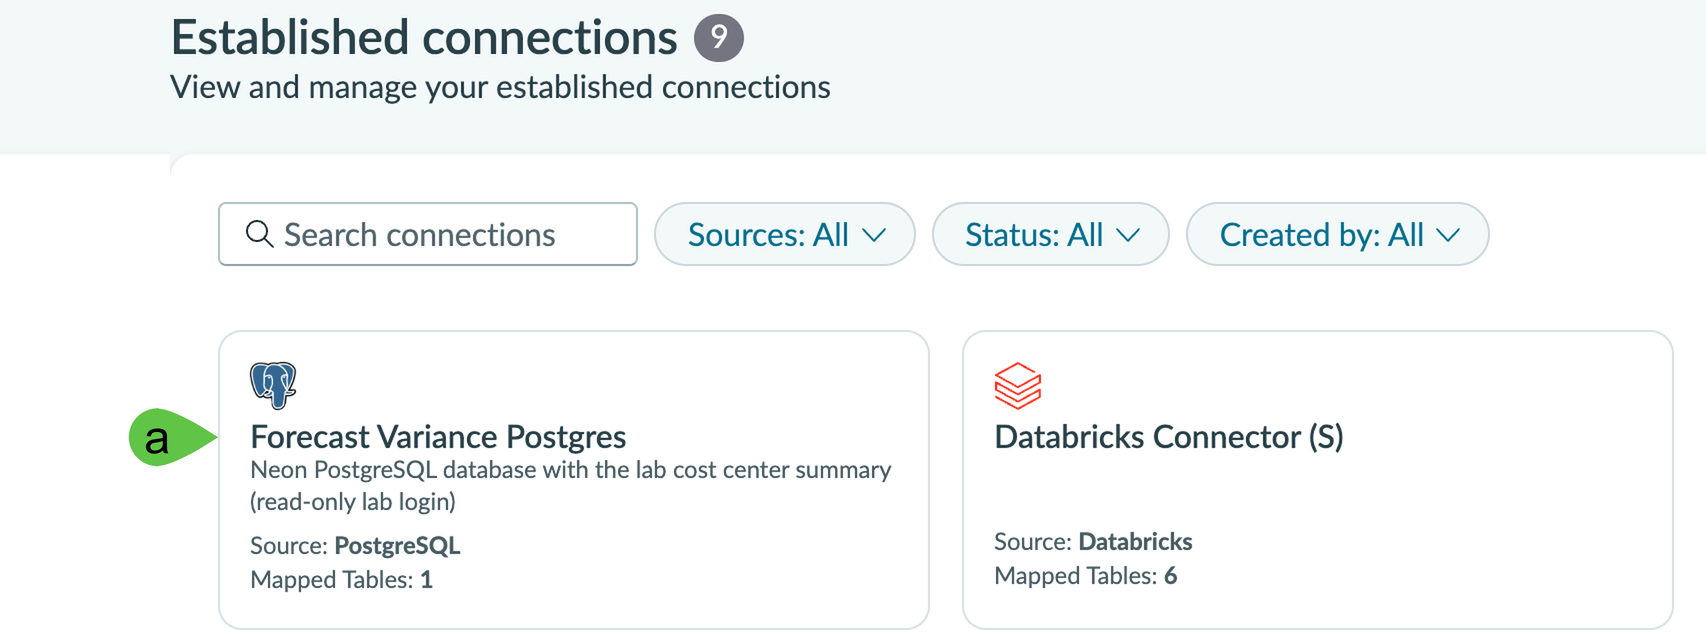
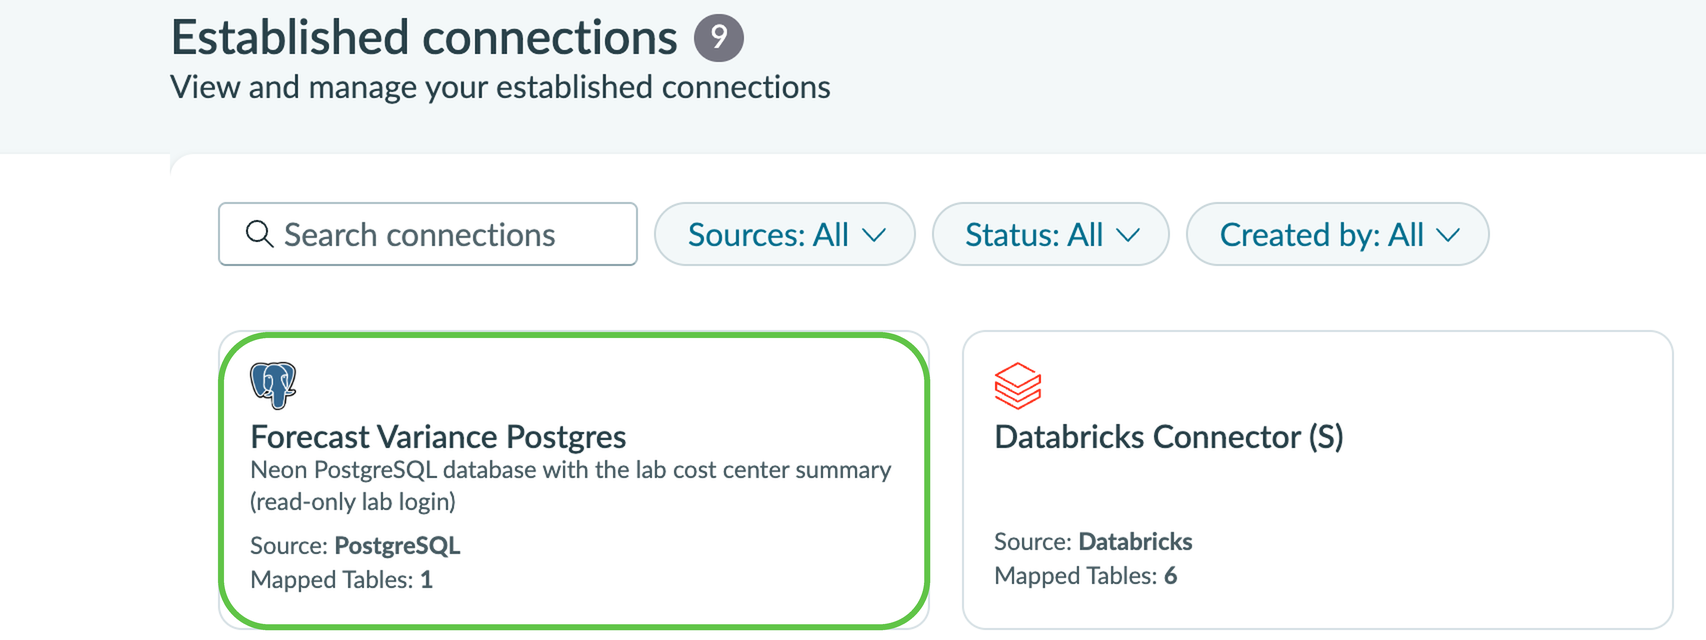
Rehost new MCP studio screenshots as lab assets, swap single-a pins for the empty box on four Zero Copy screenshots
Generated with [Devin](https://devin.ai)

Changed region(s): [[0.0621, 0.5, 0.5281, 1.0], [0.5281, 0.5312, 0.5592, 0.9688]]

diff --git a/src/fluent/lab-assets/lab-assets.now.ts b/src/fluent/lab-assets/lab-assets.now.ts
@@ -2384,3 +2384,82 @@ Record({
         image: Now.attach('./files/wdf_connectors_banner.gif'),
     },
 })
+
+Record({
+    $id: Now.ID['lab-asset-sc-mcp-aia-agentic-solutions-nav-png'],
+    table: 'x_snc_forecast_v_0_lab_asset',
+    data: {
+        name: 'sc_mcp_aia_agentic_solutions_nav.png',
+        image: Now.attach('./files/sc_mcp_aia_agentic_solutions_nav.png'),
+    },
+})
+
+
+Record({
+    $id: Now.ID['lab-asset-sc-mcp-aia-agent-canvas-edit-png'],
+    table: 'x_snc_forecast_v_0_lab_asset',
+    data: {
+        name: 'sc_mcp_aia_agent_canvas_edit.png',
+        image: Now.attach('./files/sc_mcp_aia_agent_canvas_edit.png'),
+    },
+})
+
+
+Record({
+    $id: Now.ID['lab-asset-sc-mcp-aia-add-tool-menu-png'],
+    table: 'x_snc_forecast_v_0_lab_asset',
+    data: {
+        name: 'sc_mcp_aia_add_tool_menu.png',
+        image: Now.attach('./files/sc_mcp_aia_add_tool_menu.png'),
+    },
+})
+
+
+Record({
+    $id: Now.ID['lab-asset-sc-mcp-aia-tool-type-menu-png'],
+    table: 'x_snc_forecast_v_0_lab_asset',
+    data: {
+        name: 'sc_mcp_aia_tool_type_menu.png',
+        image: Now.attach('./files/sc_mcp_aia_tool_type_menu.png'),
+    },
+})
+
+
+Record({
+    $id: Now.ID['lab-asset-sc-mcp-aia-select-server-tool-png'],
+    table: 'x_snc_forecast_v_0_lab_asset',
+    data: {
+        name: 'sc_mcp_aia_select_server_tool.png',
+        image: Now.attach('./files/sc_mcp_aia_select_server_tool.png'),
+    },
+})
+
+
+Record({
+    $id: Now.ID['lab-asset-sc-mcp-aia-tool-settings-png'],
+    table: 'x_snc_forecast_v_0_lab_asset',
+    data: {
+        name: 'sc_mcp_aia_tool_settings.png',
+        image: Now.attach('./files/sc_mcp_aia_tool_settings.png'),
+    },
+})
+
+
+Record({
+    $id: Now.ID['lab-asset-sc-mcp-aia-agent-tools-saved-png'],
+    table: 'x_snc_forecast_v_0_lab_asset',
+    data: {
+        name: 'sc_mcp_aia_agent_tools_saved.png',
+        image: Now.attach('./files/sc_mcp_aia_agent_tools_saved.png'),
+    },
+})
+
+
+Record({
+    $id: Now.ID['lab-asset-sc-mcp-aia-run-test-dialog-png'],
+    table: 'x_snc_forecast_v_0_lab_asset',
+    data: {
+        name: 'sc_mcp_aia_run_test_dialog.png',
+        image: Now.attach('./files/sc_mcp_aia_run_test_dialog.png'),
+    },
+})

diff --git a/lab-guide/extended-exercises/lab-exercise-model-context-protocol-server-client.md b/lab-guide/extended-exercises/lab-exercise-model-context-protocol-server-client.md
@@ -183,19 +183,29 @@ Accept default security controls. Configure channels and status. Save and test.
 
 Open the copy in the new AI Agent Studio. Add the MCP instructions to the agent. Add the Run SQL MCP server tool from Neon. Configure tool name, description, and execution mode.
 
-1. Navigate to All > <mark style="color:green;">**a.)**</mark> type **AI Agent Studio** > <mark style="color:green;">**b.)**</mark> click on **Agentic solutions**.
+1. Navigate to All > type **AI Agent Studio** > click on **Agentic Solutions**.
 
-2. In the list, <mark style="color:green;">**a.)**</mark> select the **AI agents** tab, <mark style="color:green;">**b.)**</mark> type **Forecast Variance Neon MCP Lab** in **Search** and <mark style="color:green;">**c.)**</mark> click the agent. The agent opens as a canvas.
+<figure><img src="../.gitbook/assets/sc_mcp_aia_agentic_solutions_nav.png" alt=""><figcaption></figcaption></figure>
+
+2. In the list, select the **AI agents** tab, type **Forecast Variance Neon MCP Lab** in **Search** and click the agent. The agent opens as a canvas.
 
 3. Click the **Edit** pencil on the agent in the middle of the canvas. The editor opens with the sections **Definitions, Tools, Access rules, Test scenarios, Triggers, Channels** and **Memories**.
 
+<figure><img src="../.gitbook/assets/sc_mcp_aia_agent_canvas_edit.png" alt=""><figcaption></figcaption></figure>
+
 4. In **Definitions > How-to instructions** go to **Step 2** (the agent you built in Integration Hub) and add one more bullet under it: **Also run the MCP tool "Get Details via Neon MCP" as a secondary check. Only return one entry (limit = 1). Columns should be \["COST\_CENTER", "ACTUAL\_AMOUNT\_USD", "BASELINE\_AMOUNT\_USD", "VARIANCE", "VARIANCE\_PCT"]**.
 
-5. Go to the **Tools** section and click <mark style="color:green;">**a.)**</mark> **+ Add tool** > <mark style="color:green;">**b.)**</mark> **Create new tool** > <mark style="color:green;">**c.)**</mark> **MCP server tool**. A new tab **MCP server tool** opens next to the agent tab.
+5. Go to the **Tools** section and click <mark style="color:green;">**a.)**</mark> **+ Add tool** > <mark style="color:green;">**b.)**</mark> **Create new tool**.
 
-6. In the new tab, <mark style="color:green;">**a.)**</mark> click **Select Model Context Protocol server** > <mark style="color:green;">**b.)**</mark> select **Neon MCP Lab**. A **Select tool** list appears and loads the tools of the Neon server (this can take a few seconds).
+<figure><img src="../.gitbook/assets/sc_mcp_aia_add_tool_menu.png" alt=""><figcaption></figcaption></figure>
 
-7. Click **Select tool**, <mark style="color:green;">**a.)**</mark> type **Run SQL** in **Search** and <mark style="color:green;">**b.)**</mark> select **Run SQL** (not **Run SQL Transaction**). The **Inputs** list (sql, project\_id, branch\_id, database\_name, role\_name, compute\_id, max\_rows) appears. Leave the inputs empty.
+6. In the list of tool types, click **MCP server tool**. A new tab **MCP server tool** opens next to the agent tab.
+
+<figure><img src="../.gitbook/assets/sc_mcp_aia_tool_type_menu.png" alt=""><figcaption></figcaption></figure>
+
+7. In the new tab, <mark style="color:green;">**a.)**</mark> select **Neon MCP Lab** in **Select Model Context Protocol server**. A **Select tool** list appears and loads the tools of the Neon server (this can take a few seconds). Then <mark style="color:green;">**b.)**</mark> click **Select tool**, type **Run SQL** in **Search** and select **Run SQL** (not **Run SQL Transaction**). The **Inputs** list (sql, project\_id, branch\_id, database\_name, role\_name, compute\_id, max\_rows) appears. Leave the inputs empty.
+
+<figure><img src="../.gitbook/assets/sc_mcp_aia_select_server_tool.png" alt=""><figcaption></figcaption></figure>
 
 8. Scroll down and provide the following details. You only need to modify three settings and leave the rest as they are.
 
@@ -208,9 +218,13 @@ Open the copy in the new AI Agent Studio. Add the MCP instructions to the agent.
 
 <mark style="color:green;">**c.)**</mark> **Execution mode**: **Autonomous**
 
-9. Click **Save** (top right of the tool tab).
+9. Click <mark style="color:green;">**d.)**</mark> **Save** (top right of the tool tab).
+
+<figure><img src="../.gitbook/assets/sc_mcp_aia_tool_settings.png" alt=""><figcaption></figcaption></figure>
 
 10. Go back to the **agent tab** (first tab). The **Tools** section now lists **Get Details via Neon MCP**. Click **Save** (top right).
+
+<figure><img src="../.gitbook/assets/sc_mcp_aia_agent_tools_saved.png" alt=""><figcaption></figcaption></figure>
 
 ### AI Agent Testing
 
@@ -218,9 +232,11 @@ Open the copy in the new AI Agent Studio. Add the MCP instructions to the agent.
 
 Enter test prompt to process an expense event. Verify the MCP tool returns matching cost center data from Neon.
 
-1. In the new AI Agent Studio, open the agent canvas (All > AI Agent Studio > **Agentic solutions** > **Forecast Variance Neon MCP Lab**). Click <mark style="color:green;">**a.)**</mark> **Run test** and keep <mark style="color:green;">**b.)**</mark> **Single test** selected.
+1. In the new AI Agent Studio, open the agent canvas (All > AI Agent Studio > **Agentic Solutions** > **Forecast Variance Neon MCP Lab**) and click **Run test**.
 
-2. In **Test scenario** <mark style="color:green;">**a.)**</mark> type **Help me process EXP-2025-IT-002-1007-01** and <mark style="color:green;">**b.)**</mark> click **Run single test**.
+2. In the **Run a test** dialog, <mark style="color:green;">**a.)**</mark> keep **Single test** selected, <mark style="color:green;">**b.)**</mark> check that **Test scenario** shows **Help me process EXP-2025-IT-002-1007-01** (type it if it is empty) and <mark style="color:green;">**c.)**</mark> click **Run single test**.
+
+<figure><img src="../.gitbook/assets/sc_mcp_aia_run_test_dialog.png" alt=""><figcaption></figcaption></figure>
 
 3. The **Trace log** opens on the right and runs the tools one after the other: **Extract Cost Center**, **Search for Cost Center History**, **Search for Expense Transactions History**, **Get Details via Neon MCP** and **Budget Variance Analysis**. Wait until the test shows **Completed**.
 

diff --git a/lab-guide/main-exercises/lab-exercise-zero-copy-connectors.md b/lab-guide/main-exercises/lab-exercise-zero-copy-connectors.md
@@ -212,7 +212,7 @@ You can let Build Agent clone the model for you.
     source's. If anything only partially inserts, roll back the run instead of leaving
     orphans.
     ```
-2.  Click <mark style="color:green;">**a.)**</mark> **Approve**. You should see the new model in **Forecast Variance** with system **S4D**, and counts that match the source (3, 29, 327, 48, 48, 29).
+2.  Click **Approve**. You should see the new model in **Forecast Variance** with system **S4D**, and counts that match the source (3, 29, 327, 48, 48, 29).
 
     <figure><img src="https://raw.githubusercontent.com/leojacinto/WorkflowDataFabric-TypeE/main/lab-guide/assets/sc_zcc_ba_approve.png" alt="" width="420"><figcaption></figcaption></figure>
 
@@ -269,7 +269,7 @@ Navigate to Zero Copy Connectors. Review the established PostgreSQL connection.
 1.  Navigate to **All** > <mark style="color:green;">**a.)**</mark> type **Zero Copy Connectors** > <mark style="color:green;">**b.)**</mark> click **Zero Copy Connectors (Workflow Data Fabric)**. This opens the **Zero Copy Connector Hub**.
 
     <figure><img src="https://raw.githubusercontent.com/leojacinto/WorkflowDataFabric-TypeE/main/lab-guide/assets/sc_zcc_pg_nav.png" alt="" width="320"><figcaption></figcaption></figure>
-2.  Go to **Established connections** > <mark style="color:green;">**a.)**</mark> **Forecast Variance Postgres**. <mark style="color:red;">**Note:**</mark> this connection is configured specifically for instances used in ServiceNow-led labs.
+2.  Go to **Established connections** > **Forecast Variance Postgres**. <mark style="color:red;">**Note:**</mark> this connection is configured specifically for instances used in ServiceNow-led labs.
 
     <figure><img src="https://raw.githubusercontent.com/leojacinto/WorkflowDataFabric-TypeE/main/lab-guide/assets/sc_zcc_pg_established.png" alt="" width="560"><figcaption></figcaption></figure>
 3.  The **Connection details** tab shows how the connection is configured: <mark style="color:green;">**a.)**</mark> a JDBC URL to the Neon database and <mark style="color:green;">**b.)**</mark> the read-only user **wdf\_lab\_reader**. No action needs to be done for this step.
@@ -286,7 +286,7 @@ Create a data fabric table from lab\_cc\_summary. Set Cost Center as a Reference
 2.  Enter the <mark style="color:green;">**a.)**</mark> **Label**, e.g. **cc\_summ\_\<your initials>**. The <mark style="color:green;">**b.)**</mark> **Name** is filled in for you, e.g. **x\_snc\_forecast\_v\_0\_df\_cc\_summ\_lfr**, and must stay at 40 characters or fewer. Check that <mark style="color:green;">**c.)**</mark> **Application scope** shows **Forecast Variance**, then click **Continue**.
 
     <figure><img src="https://raw.githubusercontent.com/leojacinto/WorkflowDataFabric-TypeE/main/lab-guide/assets/sc_zcc_pg_df_label.png" alt="" width="560"><figcaption></figcaption></figure>
-3.  Tick the <mark style="color:green;">**a.)**</mark> box beside **Name** to map all 10 columns to the data fabric table. You can also pick only the columns you need, which makes the table load faster.
+3.  Tick the box beside **Name** to map all 10 columns to the data fabric table. You can also pick only the columns you need, which makes the table load faster.
 
     <figure><img src="https://raw.githubusercontent.com/leojacinto/WorkflowDataFabric-TypeE/main/lab-guide/assets/sc_zcc_pg_select_columns.png" alt=""><figcaption></figcaption></figure>
 4.  For **cost\_center**, change <mark style="color:green;">**a.)**</mark> **Type** from **String** to **Reference** (at the end of the list), then click <mark style="color:green;">**b.)**</mark> **Set Reference**. A **Reference** field points to a record in another table, so each cost center links to its master data from SAP.
@@ -298,7 +298,7 @@ Create a data fabric table from lab\_cc\_summary. Set Cost Center as a Reference
 6.  Turn on <mark style="color:green;">**a.)**</mark> **Primary** for **gl\_account**, then click <mark style="color:green;">**b.)**</mark> **Finish**.
 
     <figure><img src="https://raw.githubusercontent.com/leojacinto/WorkflowDataFabric-TypeE/main/lab-guide/assets/sc_zcc_pg_primary_key.png" alt=""><figcaption></figcaption></figure>
-7.  In the **Primary key defined** dialog, click <mark style="color:green;">**a.)**</mark> **Confirm**. A primary key lets ServiceNow tell the source rows apart, and it can't be removed later.
+7.  In the **Primary key defined** dialog, click **Confirm**. A primary key lets ServiceNow tell the source rows apart, and it can't be removed later.
 
     <figure><img src="https://raw.githubusercontent.com/leojacinto/WorkflowDataFabric-TypeE/main/lab-guide/assets/sc_zcc_pg_confirm_pk.png" alt="" width="420"><figcaption></figcaption></figure>
 
